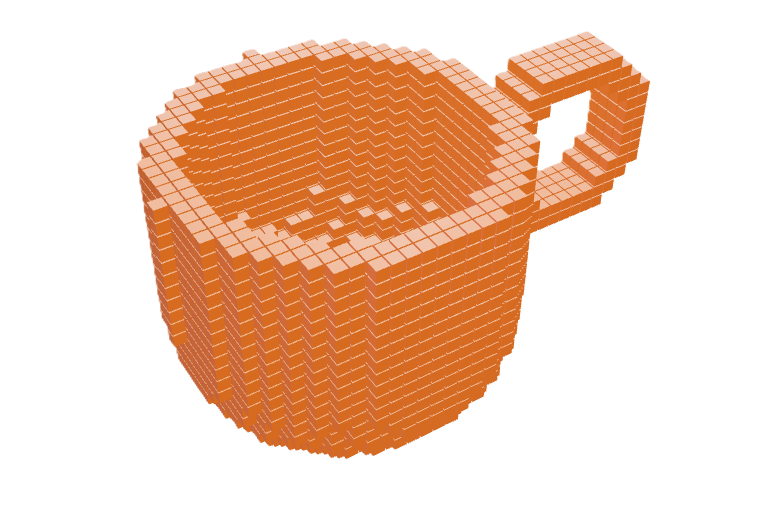
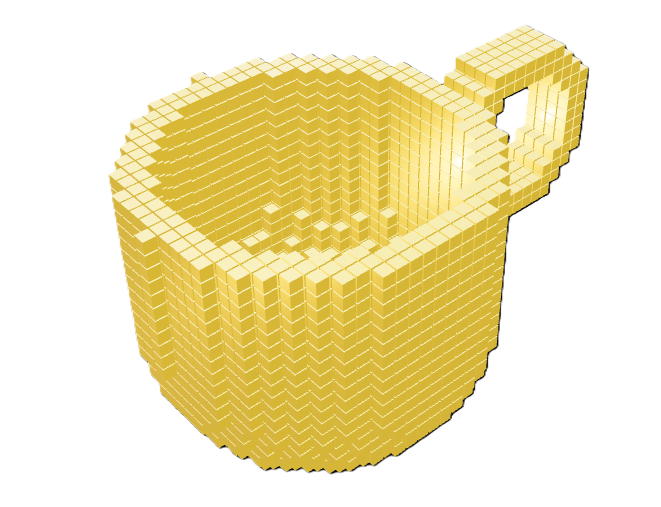
feat: Implement a dark theme with yellow accents for the canvas background, 3D cup, lighting, and text elements.

diff --git a/components/FormationCanvas.tsx b/components/FormationCanvas.tsx
@@ -11,7 +11,7 @@ import { easing } from "maath";
 import { generateParticles } from "@/utils/generators";
 
 const PARTICLE_COUNT = 4000;
-const CUP_COLOR = "#f97316";
+const CUP_COLOR = "#facc15";
 
 const particleData = generateParticles(PARTICLE_COUNT);
 
@@ -85,10 +85,12 @@ function Particles() {
                 <boxGeometry args={[1, 1, 1]} />
                 <meshPhysicalMaterial
                     color={CUP_COLOR}
-                    roughness={0.25}
-                    metalness={0.1}
-                    transmission={0.6}
-                    thickness={1.8}
+                    emissive={CUP_COLOR}
+                    emissiveIntensity={0.5}
+                    roughness={0.2}
+                    metalness={0.8}
+                    transmission={0.2}
+                    thickness={1.5}
                     ior={1.5}
                     clearcoat={1}
                 />
@@ -101,10 +103,10 @@ export default function FormationCanvas() {
     return (
         <div className="w-full h-full relative">
             <Canvas dpr={[1, 2]} camera={{ position: [0, 0, 8], fov: 45 }}>
-                <color attach="background" args={["#f8fafc"]} />
+                <color attach="background" args={["#09090b"]} />
                 <ambientLight intensity={0.5} />
                 <spotLight position={[10, 10, 10]} angle={0.15} penumbra={1} intensity={100} castShadow />
-                <pointLight position={[-10, -10, -10]} intensity={50} color="indigo" />
+                <pointLight position={[-10, -10, -10]} intensity={50} color="#eab308" />
 
                 <SceneContent />
             </Canvas>

diff --git a/components/TextSection.tsx b/components/TextSection.tsx
@@ -49,17 +49,17 @@ export default function TextSection() {
             <div className="flex flex-col items-center gap-3 pointer-events-auto">
                 <motion.p
                     variants={topItemVariants}
-                    className="opacity-0 font-bold tracking-[0.3em] uppercase text-xs text-slate-900"
+                    className="opacity-0 font-bold tracking-[0.3em] uppercase text-xs text-slate-200"
                 >
-                    Digital Crafting
+                    Digital <span className="text-yellow-400">Crafting</span>
                 </motion.p>
             </div>
 
             <div className="grow" />
 
             <motion.div variants={bottomItemVariants} className="flex flex-col items-center pointer-events-auto opacity-0">
-                <h1 className="text-3xl md:text-7xl font-display font-bold text-slate-900 leading-tight text-center whitespace-nowrap">
-                    Shape to <span className="text-indigo-600">Your Idea.</span>
+                <h1 className="text-3xl md:text-7xl font-display font-bold text-white leading-tight text-center whitespace-nowrap">
+                    Shape to <span className="text-yellow-400">Your Idea.</span>
                 </h1>
             </motion.div>
         </motion.div>

diff --git a/app/page.tsx b/app/page.tsx
@@ -3,7 +3,7 @@ import TextSection from "@/components/TextSection";
 
 export default function Home() {
   return (
-    <main className="relative h-screen w-full overflow-hidden bg-slate-50">
+    <main className="relative h-screen w-full overflow-hidden bg-zinc-950">
       <div className="absolute inset-0 z-0">
         <FormationCanvas />
       </div>
